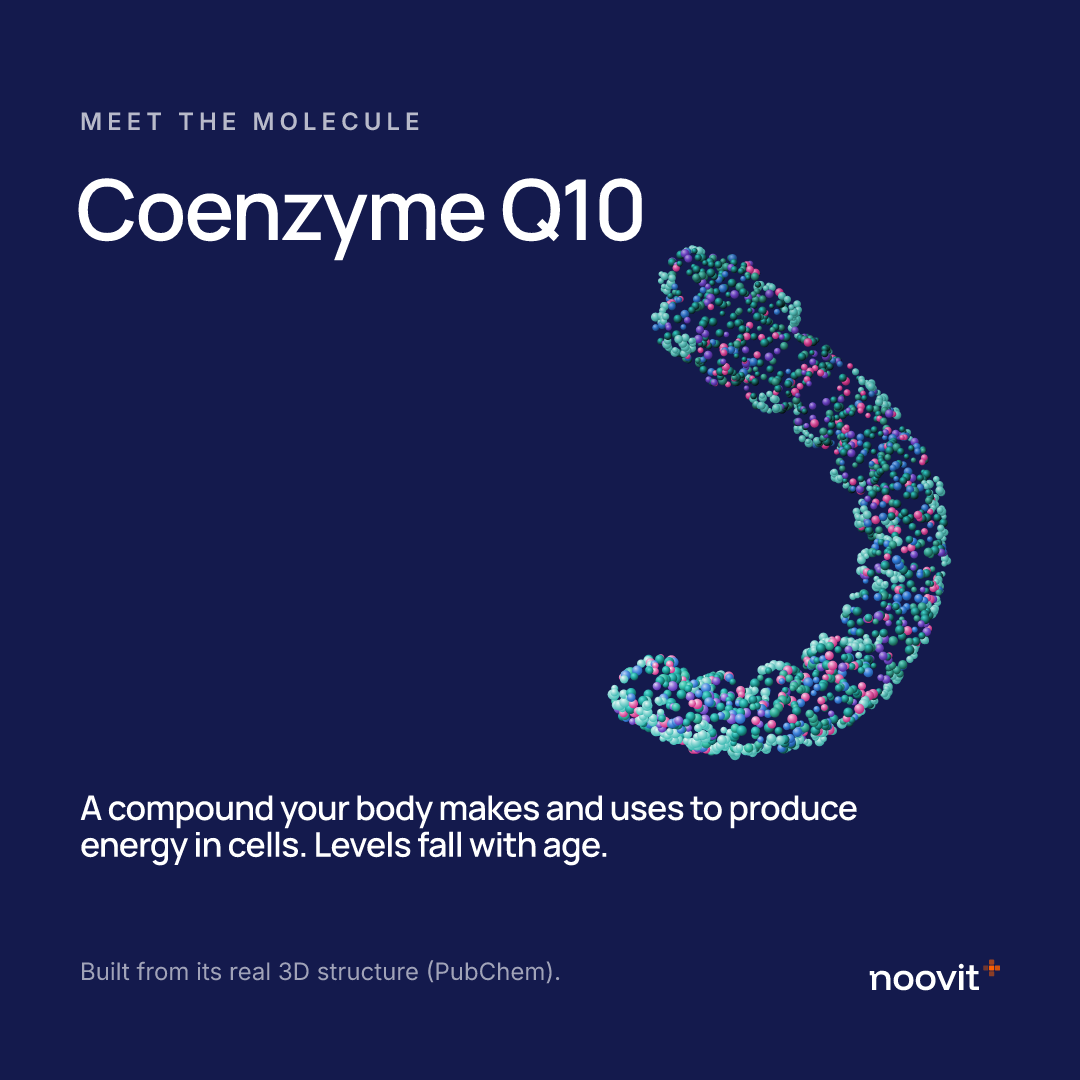
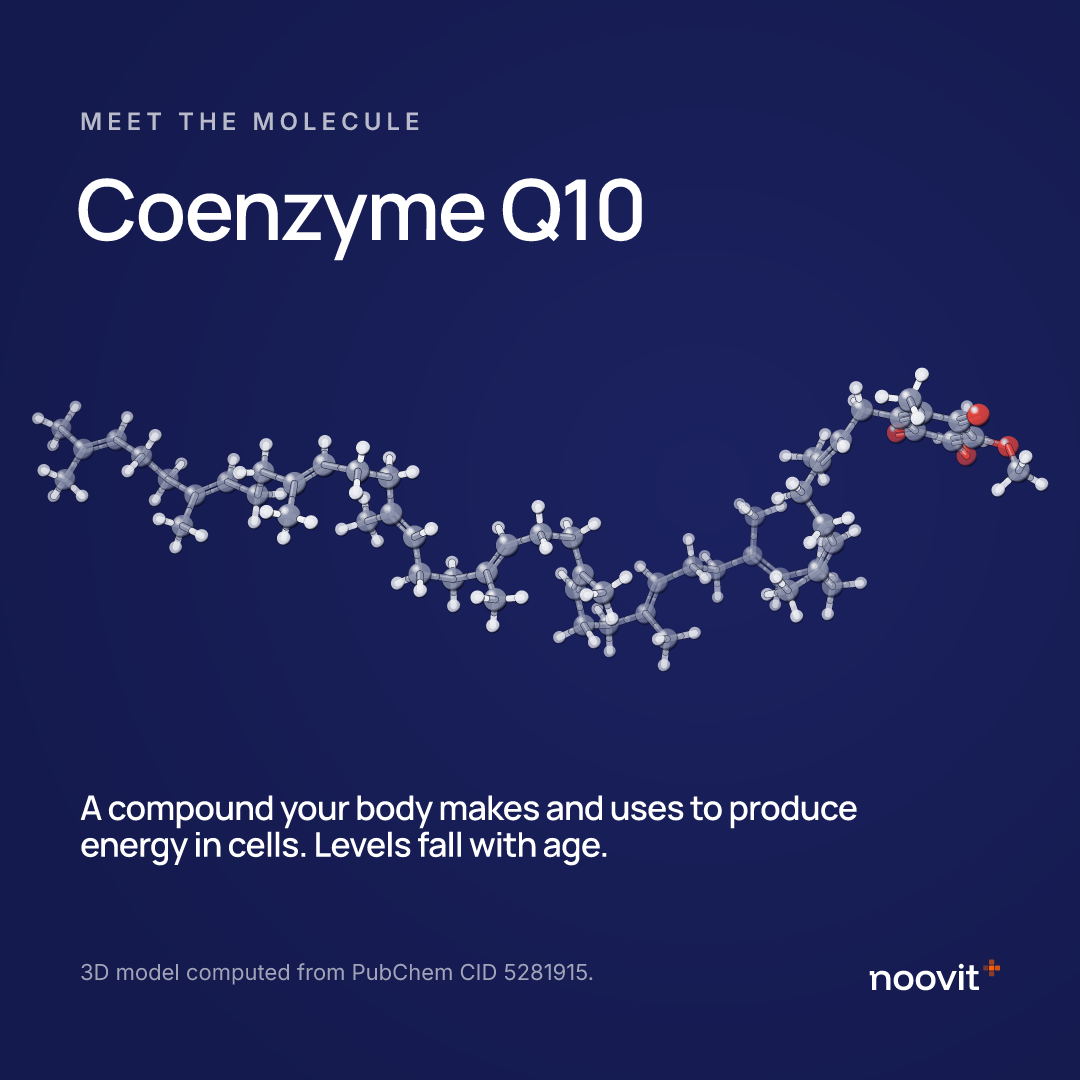
Infographics and molecule posts in the 3D style
- lib/labels/molecule3d.ts: shared 3D ball-and-stick renderer (PubChem 3D conformers; CoQ10 computed with RDKit
  from its PubChem structure and labelled as computed)
- npm run infographic and npm run social use it; new creatine molecule post

Claude-Session: https://claude.ai/code/session_01AgHwmMXyw3TzvCrzNnVa8R

Changed region(s): [[0.0306, 0.2139, 0.9778, 0.7028], [0.0611, 0.8861, 0.55, 0.9167]]

diff --git a/lib/labels/molecule3d.ts b/lib/labels/molecule3d.ts
@@ -1,0 +1,75 @@
+import MOL3D from '@/data/molecules3d.json';
+
+// Shared 3D ball-and-stick renderer (21 Nov). Used by scripts/test-art.ts, scripts/infographic.ts and
+// scripts/social-templates.ts. Owner-approved style for all new molecule art.
+// ---------- 3D ball-and-stick (21 Nov, owner: "more 3D texture and defined") ----------
+// PubChem 3D conformer (data/molecules3d.json, scripts/build-molecules3d.py), hydrogens included, only rotated and scaled.
+// Atoms are glossy spheres (specular highlight, coloured body, dark rim), bonds are shaded cylinders split in the two
+// atoms' colours, double bonds drawn as two thinner cylinders, everything painted back to front with depth fade.
+type M3 = { cid: number; atoms: [string, number, number, number][]; bonds: [number, number, number][]; computed?: string };
+export const hasMol3d = (key: string) => key in (MOL3D as object);
+export const mol3dSource = (key: string) => { const m = (MOL3D as unknown as Record<string, M3>)[key]; return m?.computed ? `3D model computed from PubChem CID ${m.cid} (${m.computed})` : `3D structure: PubChem CID ${m?.cid} (computed conformer)`; };
+export const CPK: Record<string, string> = { C: '#8E95AE', H: '#EEF0F6', O: '#E0443E', N: '#3E6FD8', I: '#940094', P: '#F08A24' };
+const RAD: Record<string, number> = { C: 0.42, H: 0.25, O: 0.4, N: 0.4, I: 0.6, P: 0.5 }; // ball-and-stick radii, in Å
+export interface Mol3dOpts { id?: string; hydrogens?: boolean; zoom?: number; zoomAt?: 'oxygen' | 'centre'; scale?: number }
+export function mol3d(key: string, cx: number, cy: number, w: number, h: number, yaw = 0.5, pitch = 0.35, roll = 0, opts: Mol3dOpts = {}) {
+  const full = (MOL3D as unknown as Record<string, M3>)[key];
+  if (!full) return { defs: '', body: '', cid: 0 };
+  // Optional: hide hydrogens (large molecules in small spaces); indices are remapped, bonds to H dropped.
+  const keep = full.atoms.map((a, i) => (opts.hydrogens === false && a[0] === 'H' ? -1 : i)).filter((i) => i >= 0);
+  const map = new Map(keep.map((i, j) => [i, j]));
+  const m: M3 = { ...full, atoms: keep.map((i) => full.atoms[i]), bonds: full.bonds.filter(([a, b]) => map.has(a) && map.has(b)).map(([a, b, o]) => [map.get(a)!, map.get(b)!, o]) };
+  const pre = opts.id ?? key;
+  const rot = ([x, y, z]: number[]) => {
+    let X = x * Math.cos(roll) - y * Math.sin(roll), Y = x * Math.sin(roll) + y * Math.cos(roll), Z = z;
+    [X, Z] = [X * Math.cos(yaw) + Z * Math.sin(yaw), -X * Math.sin(yaw) + Z * Math.cos(yaw)];
+    [Y, Z] = [Y * Math.cos(pitch) - Z * Math.sin(pitch), Y * Math.sin(pitch) + Z * Math.cos(pitch)];
+    return [X, Y, Z];
+  };
+  const P = m.atoms.map(([, x, y, z]) => rot([x, y, z]));
+  const xs = P.map((p) => p[0]), ys = P.map((p) => p[1]), zs = P.map((p) => p[2]);
+  const pad = 0.7;
+  let s = Math.min(w / (Math.max(...xs) - Math.min(...xs) + pad * 2), h / (Math.max(...ys) - Math.min(...ys) + pad * 2)) * (opts.scale ?? 1);
+  let mx = (Math.max(...xs) + Math.min(...xs)) / 2, my = (Math.max(...ys) + Math.min(...ys)) / 2;
+  if (opts.zoom) {
+    s *= opts.zoom;
+    if (opts.zoomAt !== 'centre') { // close-up centred on the oxygens (e.g. CoQ10's quinone ring)
+      const oi = m.atoms.map((a, i) => (a[0] === 'O' ? i : -1)).filter((i) => i >= 0);
+      if (oi.length) { mx = oi.reduce((t, i) => t + P[i][0], 0) / oi.length; my = oi.reduce((t, i) => t + P[i][1], 0) / oi.length; }
+    }
+  }
+  const zmin = Math.min(...zs), zmax = Math.max(...zs);
+  const depth = (z: number) => (z - zmin) / (zmax - zmin || 1); // 0 far, 1 near (z towards viewer)
+  const S = P.map(([x, y, z]) => ({ x: cx + (x - mx) * s, y: cy - (y - my) * s, d: depth(z) }));
+  const defs: string[] = [];
+  const seen = new Set<string>();
+  const ball = (e: string) => { const id = `a3-${pre}-${e}`; if (!seen.has(id)) { seen.add(id); const c = CPK[e] ?? CPK.C; defs.push(`<radialGradient id="${id}" cx="0.36" cy="0.32" r="0.72" fx="0.3" fy="0.26"><stop offset="0" stop-color="#ffffff"/><stop offset="0.12" stop-color="#ffffff" stop-opacity="0.9"/><stop offset="0.3" stop-color="${c}"/><stop offset="0.82" stop-color="${c}" stop-opacity="0.92"/><stop offset="1" stop-color="#05061a"/></radialGradient>`); } return id; };
+  const items: { z: number; svg: string }[] = [];
+  const fade = (d: number) => (0.55 + 0.45 * d).toFixed(2);
+  const bondR = 0.12 * s;
+  for (const [a, b, order] of m.bonds) {
+    const A = S[a], B = S[b];
+    const ea = m.atoms[a][0], eb = m.atoms[b][0];
+    const L = Math.hypot(B.x - A.x, B.y - A.y) || 1, nx = -(B.y - A.y) / L, ny = (B.x - A.x) / L;
+    const offs = order === 2 ? [-1, 1] : order === 3 ? [-1.4, 0, 1.4] : [0];
+    const r = order > 1 ? bondR * 0.62 : bondR;
+    const mxp = (A.x + B.x) / 2, myp = (A.y + B.y) / 2;
+    for (const o of offs) {
+      const ox = nx * o * r * 1.35, oy = ny * o * r * 1.35;
+      const seg = (x1: number, y1: number, x2: number, y2: number, e: string, d: number) => {
+        const c = CPK[e] ?? CPK.C;
+        // cylinder: dark core stroke, body, then a thin highlight offset towards the light (top left)
+        return `<g opacity="${fade(d)}"><line x1="${(x1 + ox).toFixed(1)}" y1="${(y1 + oy).toFixed(1)}" x2="${(x2 + ox).toFixed(1)}" y2="${(y2 + oy).toFixed(1)}" stroke="#05061a" stroke-width="${(r * 2.3).toFixed(1)}" stroke-linecap="round"/><line x1="${(x1 + ox).toFixed(1)}" y1="${(y1 + oy).toFixed(1)}" x2="${(x2 + ox).toFixed(1)}" y2="${(y2 + oy).toFixed(1)}" stroke="${c}" stroke-width="${(r * 2).toFixed(1)}" stroke-linecap="round"/><line x1="${(x1 + ox - r * 0.35).toFixed(1)}" y1="${(y1 + oy - r * 0.45).toFixed(1)}" x2="${(x2 + ox - r * 0.35).toFixed(1)}" y2="${(y2 + oy - r * 0.45).toFixed(1)}" stroke="#ffffff" stroke-opacity="0.45" stroke-width="${(r * 0.55).toFixed(1)}" stroke-linecap="round"/></g>`;
+      };
+      items.push({ z: (A.d * 0.75 + B.d * 0.25) - 0.02, svg: seg(A.x, A.y, mxp, myp, ea, A.d) });
+      items.push({ z: (B.d * 0.75 + A.d * 0.25) - 0.02, svg: seg(mxp, myp, B.x, B.y, eb, B.d) });
+    }
+  }
+  m.atoms.forEach(([e], i) => {
+    const A = S[i], r = (RAD[e] ?? RAD.C) * s * (0.9 + 0.2 * A.d);
+    items.push({ z: A.d, svg: `<g opacity="${fade(A.d)}"><circle cx="${A.x.toFixed(1)}" cy="${(A.y + r * 0.08).toFixed(1)}" r="${(r * 1.04).toFixed(1)}" fill="#05061a" fill-opacity="0.6"/><circle cx="${A.x.toFixed(1)}" cy="${A.y.toFixed(1)}" r="${r.toFixed(1)}" fill="url(#${ball(e)})"/></g>` });
+  });
+  items.sort((p, q) => p.z - q.z);
+  return { defs: defs.join(''), body: items.map((i) => i.svg).join(''), cid: m.cid };
+}
+

diff --git a/scripts/test-art.ts b/scripts/test-art.ts
@@ -7,61 +7,7 @@ import { readdirSync } from 'fs';
 import path from 'path';
 import { Resvg } from '@resvg/resvg-js';
 import sharp from 'sharp';
-import MOL3D from '../data/molecules3d.json';
-
-// ---------- 3D ball-and-stick (21 Nov, owner: "more 3D texture and defined") ----------
-// PubChem 3D conformer (data/molecules3d.json, scripts/build-molecules3d.py), hydrogens included, only rotated and scaled.
-// Atoms are glossy spheres (specular highlight, coloured body, dark rim), bonds are shaded cylinders split in the two
-// atoms' colours, double bonds drawn as two thinner cylinders, everything painted back to front with depth fade.
-type M3 = { cid: number; atoms: [string, number, number, number][]; bonds: [number, number, number][] };
-const CPK: Record<string, string> = { C: '#8E95AE', H: '#EEF0F6', O: '#E0443E', N: '#3E6FD8', I: '#940094' };
-const RAD: Record<string, number> = { C: 0.42, H: 0.25, O: 0.4, N: 0.4, I: 0.6 }; // ball-and-stick radii, in Å
-function mol3d(key: string, cx: number, cy: number, w: number, h: number, yaw = 0.5, pitch = 0.35, roll = 0) {
-  const m = (MOL3D as unknown as Record<string, M3>)[key];
-  const rot = ([x, y, z]: number[]) => {
-    let X = x * Math.cos(roll) - y * Math.sin(roll), Y = x * Math.sin(roll) + y * Math.cos(roll), Z = z;
-    [X, Z] = [X * Math.cos(yaw) + Z * Math.sin(yaw), -X * Math.sin(yaw) + Z * Math.cos(yaw)];
-    [Y, Z] = [Y * Math.cos(pitch) - Z * Math.sin(pitch), Y * Math.sin(pitch) + Z * Math.cos(pitch)];
-    return [X, Y, Z];
-  };
-  const P = m.atoms.map(([, x, y, z]) => rot([x, y, z]));
-  const xs = P.map((p) => p[0]), ys = P.map((p) => p[1]), zs = P.map((p) => p[2]);
-  const pad = 0.7, s = Math.min(w / (Math.max(...xs) - Math.min(...xs) + pad * 2), h / (Math.max(...ys) - Math.min(...ys) + pad * 2));
-  const mx = (Math.max(...xs) + Math.min(...xs)) / 2, my = (Math.max(...ys) + Math.min(...ys)) / 2;
-  const zmin = Math.min(...zs), zmax = Math.max(...zs);
-  const depth = (z: number) => (z - zmin) / (zmax - zmin || 1); // 0 far, 1 near (z towards viewer)
-  const S = P.map(([x, y, z]) => ({ x: cx + (x - mx) * s, y: cy - (y - my) * s, d: depth(z) }));
-  const defs: string[] = [];
-  const seen = new Set<string>();
-  const ball = (e: string) => { const id = `a3-${e}`; if (!seen.has(id)) { seen.add(id); const c = CPK[e] ?? CPK.C; defs.push(`<radialGradient id="${id}" cx="0.36" cy="0.32" r="0.72" fx="0.3" fy="0.26"><stop offset="0" stop-color="#ffffff"/><stop offset="0.12" stop-color="#ffffff" stop-opacity="0.9"/><stop offset="0.3" stop-color="${c}"/><stop offset="0.82" stop-color="${c}" stop-opacity="0.92"/><stop offset="1" stop-color="#05061a"/></radialGradient>`); } return id; };
-  const items: { z: number; svg: string }[] = [];
-  const fade = (d: number) => (0.55 + 0.45 * d).toFixed(2);
-  const bondR = 0.12 * s;
-  for (const [a, b, order] of m.bonds) {
-    const A = S[a], B = S[b];
-    const ea = m.atoms[a][0], eb = m.atoms[b][0];
-    const L = Math.hypot(B.x - A.x, B.y - A.y) || 1, nx = -(B.y - A.y) / L, ny = (B.x - A.x) / L;
-    const offs = order === 2 ? [-1, 1] : order === 3 ? [-1.4, 0, 1.4] : [0];
-    const r = order > 1 ? bondR * 0.62 : bondR;
-    const mxp = (A.x + B.x) / 2, myp = (A.y + B.y) / 2;
-    for (const o of offs) {
-      const ox = nx * o * r * 1.35, oy = ny * o * r * 1.35;
-      const seg = (x1: number, y1: number, x2: number, y2: number, e: string, d: number) => {
-        const c = CPK[e] ?? CPK.C;
-        // cylinder: dark core stroke, body, then a thin highlight offset towards the light (top left)
-        return `<g opacity="${fade(d)}"><line x1="${(x1 + ox).toFixed(1)}" y1="${(y1 + oy).toFixed(1)}" x2="${(x2 + ox).toFixed(1)}" y2="${(y2 + oy).toFixed(1)}" stroke="#05061a" stroke-width="${(r * 2.3).toFixed(1)}" stroke-linecap="round"/><line x1="${(x1 + ox).toFixed(1)}" y1="${(y1 + oy).toFixed(1)}" x2="${(x2 + ox).toFixed(1)}" y2="${(y2 + oy).toFixed(1)}" stroke="${c}" stroke-width="${(r * 2).toFixed(1)}" stroke-linecap="round"/><line x1="${(x1 + ox - r * 0.35).toFixed(1)}" y1="${(y1 + oy - r * 0.45).toFixed(1)}" x2="${(x2 + ox - r * 0.35).toFixed(1)}" y2="${(y2 + oy - r * 0.45).toFixed(1)}" stroke="#ffffff" stroke-opacity="0.45" stroke-width="${(r * 0.55).toFixed(1)}" stroke-linecap="round"/></g>`;
-      };
-      items.push({ z: (A.d * 0.75 + B.d * 0.25) - 0.02, svg: seg(A.x, A.y, mxp, myp, ea, A.d) });
-      items.push({ z: (B.d * 0.75 + A.d * 0.25) - 0.02, svg: seg(mxp, myp, B.x, B.y, eb, B.d) });
-    }
-  }
-  m.atoms.forEach(([e], i) => {
-    const A = S[i], r = (RAD[e] ?? RAD.C) * s * (0.9 + 0.2 * A.d);
-    items.push({ z: A.d, svg: `<g opacity="${fade(A.d)}"><circle cx="${A.x.toFixed(1)}" cy="${(A.y + r * 0.08).toFixed(1)}" r="${(r * 1.04).toFixed(1)}" fill="#05061a" fill-opacity="0.6"/><circle cx="${A.x.toFixed(1)}" cy="${A.y.toFixed(1)}" r="${r.toFixed(1)}" fill="url(#${ball(e)})"/></g>` });
-  });
-  items.sort((p, q) => p.z - q.z);
-  return { defs: defs.join(''), body: items.map((i) => i.svg).join(''), cid: m.cid };
-}
+import { mol3d } from '../lib/labels/molecule3d';
 
 const W = 1600, H = 700;
 const esc = (s: string) => s.replace(/&/g, '&amp;').replace(/</g, '&lt;');
@@ -107,7 +53,7 @@ function cells() {
 const fonts = readdirSync('assets/fonts').filter((f) => f.endsWith('.ttf')).map((f) => path.join('assets/fonts', f));
 (async () => {
   for (const f of FIGS) {
-    const m3 = f.key ? mol3d(f.key, 1090, 350, 880, 600, ...(f.view ?? [0.55, 0.45, 0])) : null;
+    const m3 = f.key ? mol3d(f.key, 1090, 350, 880, 600, ...(f.view ?? [0.55, 0.45, 0] as [number, number, number])) : null;
     const art = m3 ? m3.body : cells();
     const legend = (f.elements ?? []).map((e, i) => `<g transform="translate(${90 + i * 130} 520)"><circle cx="9" cy="9" r="10" fill="url(#el-${e})"/><text x="28" y="14" font-family="Inter" font-size="15" fill="#D9DFF5" fill-opacity="0.85">${ELEMENTS[e][0]}</text></g>`).join('');
     const foot = f.cid ? `3D structure: PubChem CID ${f.cid} (computed conformer). Ball-and-stick model.` : 'Schematic illustration, not to scale';

diff --git a/scripts/infographic.ts b/scripts/infographic.ts
@@ -1,12 +1,12 @@
 // Educational infographics in the "molecular city" style (3–4 Nov): a central bead-built illustration, hexagon
 // close-ups joined by thin lines, and short captions. Accuracy rules: captions are facts from NIH pages and our
-// verified guides (no product claims); every molecule is PubChem's own 2D structure (data/skeletons.json), drawn as
+// verified guides (no product claims); every molecule is a 3D ball-and-stick from PubChem's 3D conformer (data/molecules3d.json; 21 Nov, was 2D tiles), drawn as
 // is or cropped, never bent; schematic parts (cells, fibres, bone) are labelled "illustration, not to scale".
 // Writes design/social/infographic-<topic>.png (1800×1200). Usage: npm run infographic
 import { mkdirSync, readdirSync, writeFileSync } from 'fs';
 import { Resvg } from '@resvg/resvg-js';
 import { SEED_PRODUCTS } from '@/data/products';
-import { ballStick } from '@/lib/labels/molecule';
+import { mol3d } from '@/lib/labels/molecule3d';
 import { particleShape } from '@/lib/labels/shapes';
 import { wordmark, wrap } from '@/lib/labels/svg';
 
@@ -74,8 +74,15 @@ function hex(id: string, cx: number, cy: number, inner: string, r = 108) {
 }
 
 // ---- hexagon contents (all drawn in the hexagon's own box, ~210 px across) ----
-const mol = (key: string, cx: number, cy: number, w: number, h: number, opts: { rotate?: number; zoom?: number; zoomAt?: 'oxygen' | 'centre'; weight?: number } = {}) =>
-  ballStick(key, cx, cy, w, h, '#7FD6CC', { carbon: '#3A4466', rotate: opts.rotate ?? 0, zoom: opts.zoom, zoomAt: opts.zoomAt, weight: opts.weight });
+// Molecules (21 Nov): 3D ball-and-stick from PubChem 3D conformers (lib/labels/molecule3d.ts), the owner-approved style.
+const KEY3D: Record<string, string> = { 'creatine-h': 'creatine', 'withaferin-a': 'withaferin' };
+let molN = 0;
+const mol = (key: string, cx: number, cy: number, w: number, h: number, opts: { rotate?: number; zoom?: number; zoomAt?: 'oxygen' | 'centre'; weight?: number; hydrogens?: boolean } = {}) => {
+  const k = KEY3D[key] ?? key;
+  const r = mol3d(k, cx, cy, w, h, 0.55 + (opts.rotate ?? 0), 0.4, 0, { id: `${k}${molN++}`, scale: 1.3, zoom: opts.zoom, zoomAt: opts.zoomAt, hydrogens: opts.hydrogens ?? !['atp', 'withaferin', 'cortisol'].includes(k) });
+  defs.push(r.defs);
+  return r.body;
+};
 const atpSynthase = (cx: number, cy: number) => {
   const out: string[] = [blob(cx, cy + 55, 70, 10, [LAV, COBALT], 3.5, 1.2)];
   for (let k = 0; k < 9; k++) { const a = (k / 9) * Math.PI * 2; out.push(blob(cx + Math.cos(a) * 30, cy - 20 + Math.sin(a) * 30, 13, 13, [GOLD, '#F2D97A', '#C9A227'], 3.2)); }
@@ -265,7 +272,7 @@ for (const t of TOPICS) {
   const body = `<rect width="${W}" height="${H}" fill="${NIGHT}"/>${centre}${hexes}
     <text x="70" y="110" font-size="72" font-weight="300" fill="#fff" font-family="Manrope">${esc(t.title)}</text>
     <text x="70" y="160" font-size="34" font-weight="300" fill="#fff" fill-opacity="0.85" font-family="Manrope">${esc(t.subtitle)}</text>
-    <text x="70" y="1170" font-size="18" fill="#fff" fill-opacity="0.55" font-family="Inter">${esc(`Educational illustration, not to scale. Molecules: PubChem 2D structures. Sources: ${t.sources}`)}</text>
+    <text x="70" y="1170" font-size="18" fill="#fff" fill-opacity="0.55" font-family="Inter">${esc(`Educational illustration, not to scale. Molecules: ${t.slug === 'coq10' ? '3D model computed from the PubChem structure' : 'PubChem 3D structures'}. Sources: ${t.sources}`)}</text>
     ${wordmark(1660, 1165, 40, 'print', '#ffffff')}`;
   const svg = `<svg xmlns="http://www.w3.org/2000/svg" viewBox="0 0 ${W} ${H}"><defs><radialGradient id="mem" cx="0.42" cy="0.38" r="0.7"><stop offset="0" stop-color="#3B4DB8" stop-opacity="0.35"/><stop offset="0.85" stop-color="#1B2470" stop-opacity="0.55"/><stop offset="1" stop-color="#AFC2FF" stop-opacity="0.35"/></radialGradient>${defs.join('')}</defs>${body}</svg>`;
   const file = `design/social/infographic-${t.slug}.png`;

diff --git a/scripts/social-templates.ts b/scripts/social-templates.ts
@@ -8,7 +8,8 @@
 // Usage: npm run social   (edit POSTS below to add more)
 import { mkdirSync, readdirSync, writeFileSync } from 'fs';
 import { Resvg } from '@resvg/resvg-js';
-import { cellsSvg, helixSvg, proteinSvg, SCIENCE as S } from '@/lib/labels/web-art';
+import { cellsSvg, helixSvg, SCIENCE as S } from '@/lib/labels/web-art';
+import { mol3d, mol3dSource } from '@/lib/labels/molecule3d';
 import { SEED_PRODUCTS } from '@/data/products';
 import { wordmark, wrap } from '@/lib/labels/svg';
 
@@ -67,21 +68,25 @@ function dosePost(p: (typeof POSTS)[number]) {
 </svg>`;
 }
 
-const MOLECULES: { slug: string; product: string; name: string; line: string; note?: string }[] = [
-  { slug: 'ashwagandha', product: 'ashwagandha', name: 'Withaferin A', line: 'One of the withanolides, the compounds ashwagandha extracts like KSM-66 are standardized for.' },
-  { slug: 'turmeric', product: 'turmeric-complex', name: 'Curcumin', line: "Turmeric's main active compound, and the reason a 95% curcuminoid extract is on the label.", note: 'Drawn from its structure in PubChem (ball-and-stick).' },
-  { slug: 'coq10', product: 'coq10', name: 'Coenzyme Q10', line: 'A compound your body makes and uses to produce energy in cells. Levels fall with age.' },
+// 21 Nov: 3D ball-and-stick (lib/labels/molecule3d.ts, PubChem 3D conformers), the owner-approved molecule style.
+const MOLECULES: { slug: string; product: string; key: string; name: string; line: string; hydrogens?: boolean; view?: [number, number, number]; box?: [number, number, number, number] }[] = [
+  { slug: 'ashwagandha', product: 'ashwagandha', key: 'withaferin', name: 'Withaferin A', line: 'One of the withanolides, the compounds ashwagandha extracts like KSM-66 are standardized for.', hydrogens: false },
+  { slug: 'turmeric', product: 'turmeric-complex', key: 'curcumin', name: 'Curcumin', line: "Turmeric's main active compound, and the reason a 95% curcuminoid extract is on the label.", view: [0, 0.35, 0], box: [540, 520, 1000, 420] },
+  { slug: 'coq10', product: 'coq10', key: 'coq10', name: 'Coenzyme Q10', line: 'A compound your body makes and uses to produce energy in cells. Levels fall with age.', view: [0, 0.3, 0], box: [540, 520, 1040, 420] },
+  { slug: 'creatine', product: 'creatine', key: 'creatine', name: 'Creatine', line: 'Made by your body from three amino acids, and stored in muscle as a quick energy reserve.' },
 ];
 function moleculePost(m: (typeof MOLECULES)[number]) {
   const W = 1080, H = 1080;
-  const p = SEED_PRODUCTS.find((x) => x.slug === m.product)!;
+  const [bx, by, bw, bh] = m.box ?? [720, 500, 660, 560];
+  const r = mol3d(m.key, bx, by, bw, bh, ...(m.view ?? [0.55, 0.45, 0] as [number, number, number]), { id: `post-${m.key}`, hydrogens: m.hydrogens });
   return `<svg xmlns="http://www.w3.org/2000/svg" viewBox="0 0 ${W} ${H}">
-  <rect width="${W}" height="${H}" fill="${S.night}"/>
-  ${nest(proteinSvg(p as never, 640, 640), 640, 640, 460, 170)}
+  <defs>${r.defs}<radialGradient id="mbg" cx="65%" cy="45%" r="70%"><stop offset="0" stop-color="#1B2260"/><stop offset="1" stop-color="${S.night}"/></radialGradient></defs>
+  <rect width="${W}" height="${H}" fill="url(#mbg)"/>
+  ${r.body}
   ${text(80, 130, 'MEET THE MOLECULE', 24, '#fff', 'font-weight="600" letter-spacing="5" opacity="0.7"')}
   ${head(76, 240, wrap(m.name, 640, 84, 0.55).slice(0, 2), 84, '#fff')}
   ${head(80, 820, wrap(m.line, 900, 34, 0.5).slice(0, 3), 34, '#fff')}
-  ${text(80, 980, m.note ?? 'Built from its real 3D structure (PubChem).', 24, '#fff', 'opacity="0.6"')}
+  ${text(80, 980, mol3dSource(m.key).replace(/ \(.*\)$/, '') + '.', 22, '#fff', 'opacity="0.6"')}
   ${wordmark(1000 - (3.46 * 38) / 2, 990, 38, 'print', '#ffffff')}
 </svg>`;
 }

diff --git a/scripts/build-molecules3d.py b/scripts/build-molecules3d.py
@@ -4,7 +4,12 @@
 # Run: python3 scripts/build-molecules3d.py <sdf-dir> data/molecules3d.json
 import sys, json
 D, out = sys.argv[1], sys.argv[2]
-CIDS = {'cortisol': 5754, 'testosterone': 6013, 'cholesterol': 5997, 'calcifediol': 5283731, 'thyroxine': 5819, 'estradiol': 5757}
+CIDS = {'cortisol': 5754, 'testosterone': 6013, 'cholesterol': 5997, 'calcifediol': 5283731, 'thyroxine': 5819, 'estradiol': 5757,
+        # infographics and social posts (21 Nov)
+        'creatine': 586, 'phosphocreatine': 9548602, 'atp': 5957, 'curcumin': 969516, 'withaferin': 265237, 'coq10': 5281915}
+# CoQ10 has no PubChem 3D conformer (too flexible). coq10.3d.sdf is computed from PubChem's 2D structure (CID 5281915)
+# with RDKit: AddHs, ETKDGv3 (seed 42, 30 conformers), MMFF94 optimisation, the lowest-energy of the 10 most extended.
+COMPUTED = {'coq10': 'RDKit ETKDG + MMFF94 from the PubChem structure'}
 def read(path):
     L = open(path).read().splitlines()
     na, nb = int(L[3][:3]), int(L[3][3:6])
@@ -33,6 +38,6 @@ def principal(atoms):
 res = {}
 for name, cid in CIDS.items():
     a, b = read(f"{D}/{name}.3d.sdf")
-    res[name] = {'cid': cid, 'atoms': principal(a), 'bonds': b}
+    res[name] = {'cid': cid, 'atoms': principal(a), 'bonds': b, **({'computed': COMPUTED[name]} if name in COMPUTED else {})}
 json.dump(res, open(out, 'w'))
 print({k: len(v['atoms']) for k, v in res.items()})

diff --git a/docs/TODO.md b/docs/TODO.md
@@ -6,8 +6,8 @@ _Consolidated 28 Oct 2026 from the whole build conversation. **Owner** = only yo
 - [ ] **(20 Nov) Run `supabase/manual/2026-11-20-journal-keywords.sql`** in Supabase (replaces the 19 Nov file; if you already ran that one, run this anyway). It adds the 6 new Journal posts (magnesium test at home 27 Nov, magnesium glycinate for women 1 Dec, low ferritin symptoms 9 Dec, ashwagandha for women 12 Dec, ashwagandha with maca 19 Dec), moves glycinate vs threonate (24 Nov) and ubiquinol vs CoQ10 (25 Nov) earlier so they're live at launch, applies the keyword SEO titles, and adds a "best creatine for women" section to that post. Before 27 Nov, open https://ods.od.nih.gov/factsheets/Magnesium-HealthProfessional/ once to confirm the figures quoted (this environment can't reach it).
 - [x] **(20 Nov) SEO and feed audit:** all 69 sitemap pages crawled (`node scripts/seo-audit.mjs`): structured data on every page (breadcrumbs, CollectionPage lists, FAQPage, AboutPage/ContactPage; Organization + WebSite on the homepage), titles ≤ 60 and descriptions ≤ 160, one H1, canonicals, OG; `/pets` now indexed (kit waitlists). Product data: all gallery images, search-words name, return method. Feeds: 4 extra images, free-shipping times, product highlights (supports-style only), product type by goal, bundle flag, custom labels (goal, for-her) for campaigns. **After launch:** test 2–3 product URLs in Google's Rich Results Test and fetch the feed in Merchant Center.
 - [ ] **(20 Nov) 7 guides public before launch** (magnesium, magnesium glycinate, creatine, lion's mane, CoQ10, ashwagandha, turmeric; `lib/public-early.ts`). Live on noovit.com (verified 21 Nov). **Owner:** follow `docs/SEARCH_CONSOLE_SETUP.md` (verify the domain; send me the TXT value and I add it in Vercel DNS; submit the sitemap; request indexing; add Bing). Add biotin once its ODS/FDA checks are done.
-- [ ] **(20 Nov) Creatine shows as a capsule bottle** in its product photos and stack shots; it's a 281 g tub. **Owner:** supply a studio tub render matching `assets/mockups/studio-bottle.jpg` (same grey studio, light and angle, plain white tub with a blank wrap label); then I map the tub label onto it for every powder (creatine, creatine for her/men, hydration, collagen, colostrum) and the group shots.
-- [ ] **(21 Nov) 3D molecules approved.** Convert the infographics (`npm run infographic`) and social templates (`npm run social`, meet-the-molecule posts) from flat 2D tiles to the 3D ball-and-stick renderer (needs PubChem 3D data for creatine, CoQ10, curcumin, withaferin A, magnesium glycinate).
+- [ ] **(20 Nov) Waiting for you: studio tub render. Creatine shows as a capsule bottle** in its product photos and stack shots; it's a 281 g tub. **Owner:** supply a studio tub render matching `assets/mockups/studio-bottle.jpg` (same grey studio, light and angle, plain white tub with a blank wrap label); then I map the tub label onto it for every powder (creatine, creatine for her/men, hydration, collagen, colostrum) and the group shots.
+- [ ] **(21 Nov) Waiting for you: review the 3D social images.** Infographics (CoQ10, magnesium, creatine, ashwagandha) and "meet the molecule" posts (CoQ10, creatine (new), curcumin, withaferin A) are regenerated in the 3D style in `design/social/` (`infographic-*.png`, `molecule-*.png`). Check them, and replace any older 2D versions already scheduled or posted. Magnesium has no molecule post: magnesium glycinate is a metal complex with no reliable 3D model, so its infographic uses Mg-ATP instead.
 - [ ] **(21 Nov) Evidence-file guide layout** is live on magnesium glycinate only (`layout: 'file'` in lib/guides.ts): file header with evidence stamps, sticky contents list with scroll-spy and progress, numbered section cards, gentle scroll reveal (no animation library). **Owner:** review it; if approved, switch every guide to it (one line each).
 - [ ] **(21 Nov) Tests + supplements** linked both ways (`lib/test-pairings.ts`): kit pages show "Supplements people pair with this test", product pages show "Check your levels" with the matching kits. Next, once kit prices are known: "Test & track" bundles (kit + 3-month supply + retest kit at month 3), priced below the parts.
 - [ ] **(20 Nov) Stacks + upsells.** New stacks: Strength ($52, Creatine + Magnesium), Strength for Her ($52), Focus ($54, Lion's Mane + CoQ10), Calm & Focus ($55, Ashwagandha + Lion's Mane); hidden until their parts are live: Strength for Men, Glow (Collagen + Biotin). `/stacks` page (file-folder cards), "Complete the stack" on product pages, cart suggests partners (lib/stacks.ts PAIRINGS) and offers a one-tap swap to a cheaper stack when both parts are in the cart; bundle photos are now studio group shots. **Owner:** Admin → Products → "Add missing launch products" (adds the stacks), check they're Active, then Stripe sync. Dev: update the product counts in `tests/e2e/phase1.mjs` / `phase2.mjs` when the e2e setup is rebuilt.

diff --git a/CLAUDE.md b/CLAUDE.md
@@ -64,7 +64,7 @@ Read this first. It is the standing context for any session working on this repo
   Infographics: `npm run infographic` (CoQ10, magnesium, creatine, ashwagandha). **Accuracy rule:** molecules are PubChem structures
   (`ballStick`, atoms as rounded tiles, CPK colours O red / N blue / P orange), only rotated or scaled, never redrawn;
   facts from NIH ODS or peer-reviewed reviews; schematic biology marked "not to scale". Test-kit figures (21 Nov): 3D ball-and-stick from
-  PubChem 3D conformers (`data/molecules3d.json`, `scripts/build-molecules3d.py`, rendered by `scripts/test-art.ts`), hydrogens shown, CPK colours (C grey, I violet). **Owner approved (21 Nov): this 3D style is the standard for new molecule art**; the flat 2D
+  PubChem 3D conformers (`data/molecules3d.json`, `scripts/build-molecules3d.py`; shared renderer `lib/labels/molecule3d.ts`, used by test-art, infographic and social scripts; CoQ10 has no PubChem 3D, so it is computed with RDKit and labelled as computed), hydrogens shown, CPK colours (C grey, I violet). **Owner approved (21 Nov): this 3D style is the standard for new molecule art**; the flat 2D
   tiles stay only where already printed or posted.
 - **The cross:** only the five-tile mosaic cross, everywhere (logo, favicon, loader, brand name in text, emails, advisor icon).
 - **Product images (16 Nov): photoreal studio shot** `assets/mockups/studio-bottle.jpg` (owner-supplied render, 2000 × 1493, grey studio,

diff --git a/docs/PROGRESS.md b/docs/PROGRESS.md
@@ -236,3 +236,4 @@ Status: **Have** · **Phase N** = planned (Phases 1–2 done Oct 2026) · **Tool
 - [x] 20 Nov (70): stacks (4 live + 2 hidden), /stacks folder-style page, Complete-the-stack cards, cart pairings + swap-to-stack, studio group shots for bundles; STI privacy (no tags on page, unnamed in emails) and STI organisms illustration (scripts/sti-art.ts).
 - [x] 20 Nov (71): 7 finished guides public + indexable pre-launch (lib/public-early.ts); STI figure accuracy pass; bead-style figures for 7 more kits (PubChem molecules: cortisol, testosterone, 25(OH)D, T4, cholesterol, estradiol; red blood cells), scripts/test-art.ts; stack folder restyled in site palette.
 - [x] 21 Nov (72): 3D molecule figures (PubChem 3D conformers, data/molecules3d.json); test<->supplement links (lib/test-pairings.ts) on kit and product pages; evidence-file guide prototype on magnesium glycinate (GuideToc scroll-spy, Reveal); test kit page redesign (test panel card, numbered marker cards); crawler files no longer noindex; docs/SEARCH_CONSOLE_SETUP.md.
+- [x] 21 Nov (73): shared 3D renderer lib/labels/molecule3d.ts; infographics and meet-the-molecule posts converted to 3D (CoQ10 conformer computed with RDKit from PubChem, labelled); new creatine molecule post.
